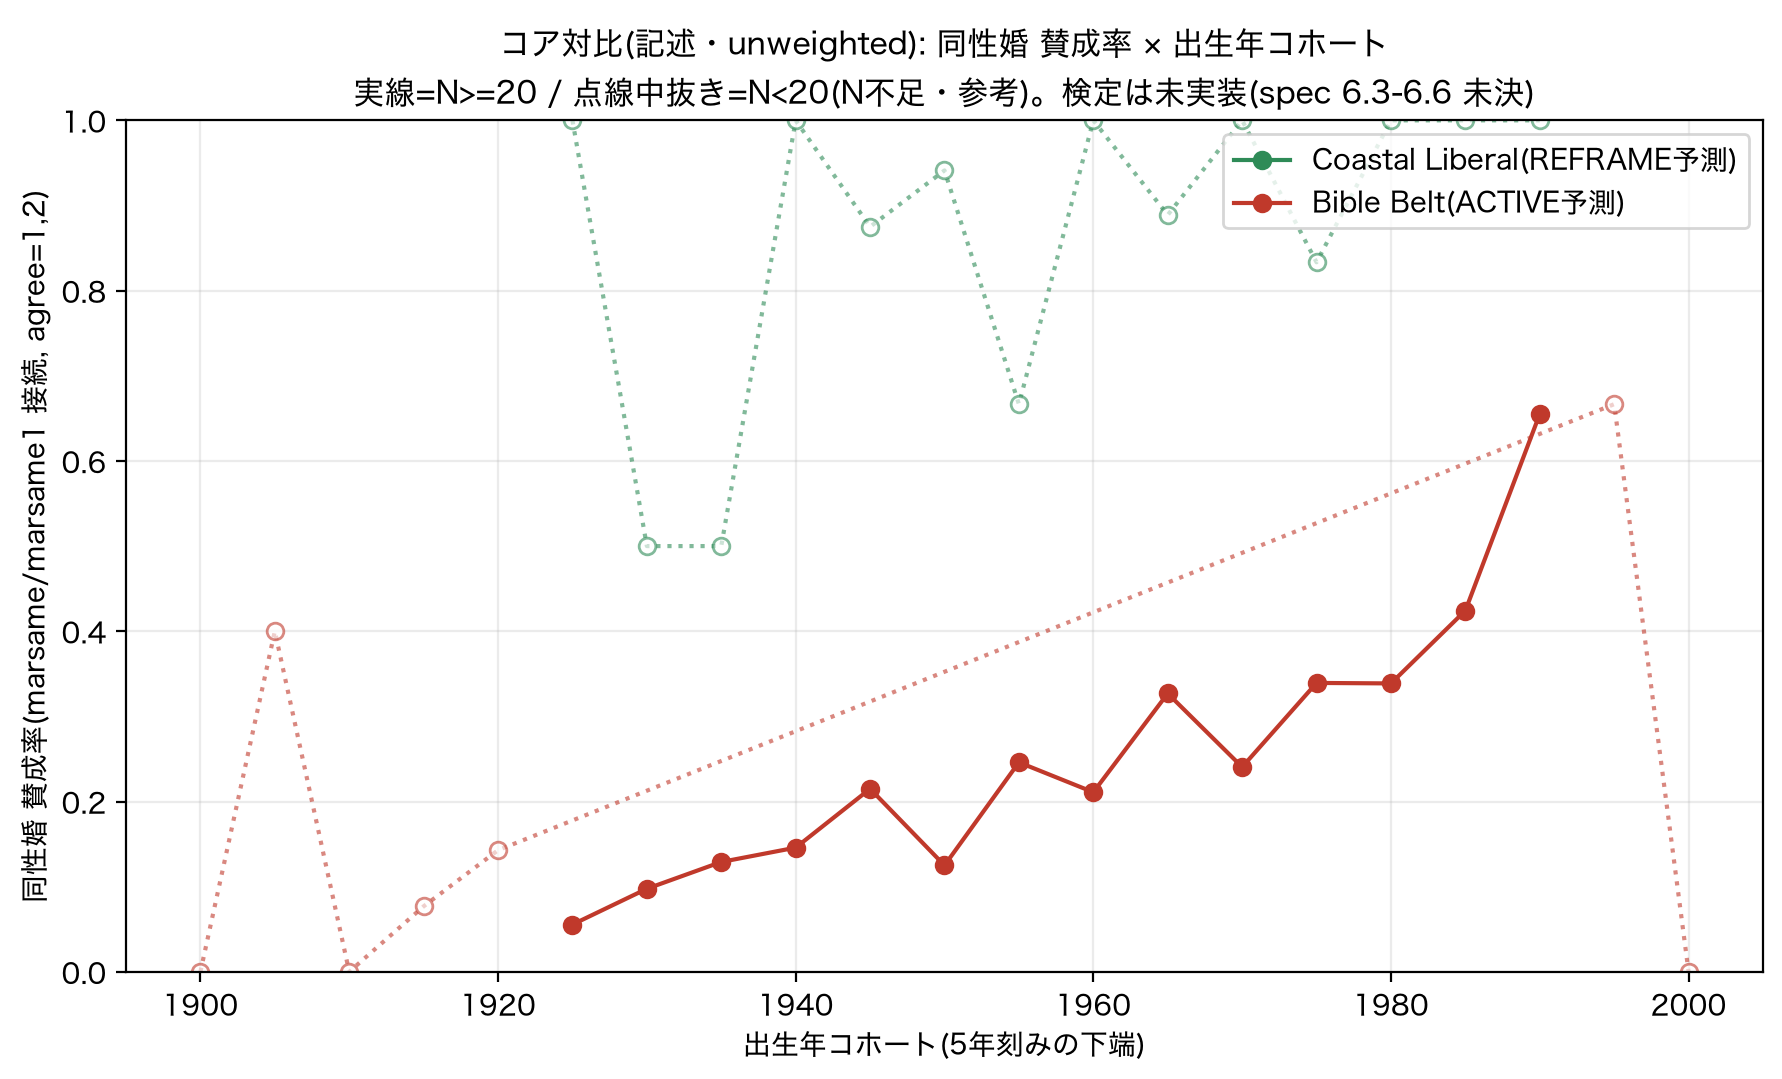
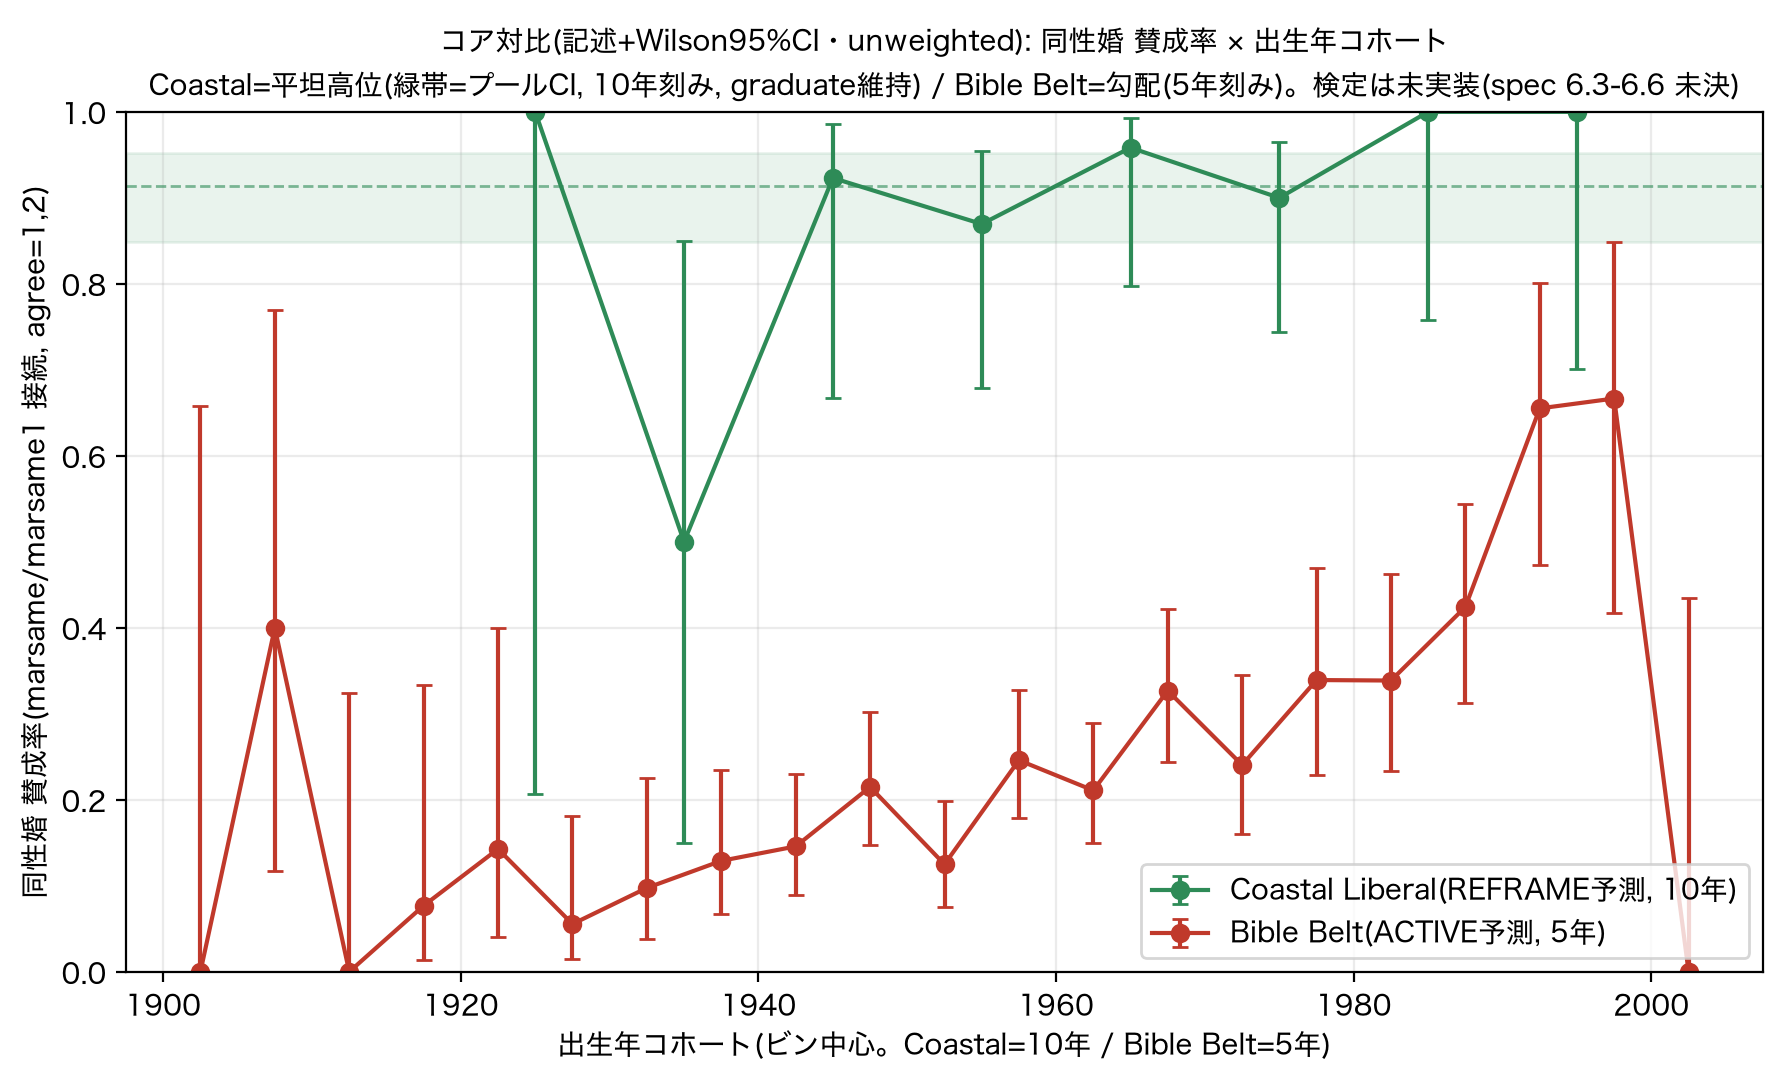
feat(gss): Coastal thin-N decision (β+γ, keep graduate) + Wilson CIs
真道さま decision: reject α (don't relax graduate→bachelor+, would break premise
distinctiveness vs Suburban MC = Non-overwrite). Adopt β+γ: keep graduate, assert
Coastal "flat-high" on the pool (γ), use 10-yr bins to gain N (β); Bible Belt keeps
5-yr gradient. Add Wilson 95% CIs to answer "is flat real or thin-N noise?" (CI is
an error bar, NOT the 6.3/6.4 test statistic — those stay undecided).

Result: Coastal pooled 91% [85,95%] — narrow enough to assert "high" at N=116;
10-yr bins 87-100% with overlapping CIs → flat is real. Bible Belt pooled 24%
[21,26%] with non-overlapping end CIs → gradient is real. Pooled CIs fully
separated → contrast robust despite N asymmetry. Twin-test picture (flat vs
gradient) visible at descriptive level.

diff --git a/src/gss_core_contrast.py b/src/gss_core_contrast.py
@@ -4,12 +4,21 @@ gss_core_contrast.py — コア対比(spec §7 開始点・確定):
   Coastal Liberal(REFRAME 予測) vs Bible Belt(ACTIVE 予測) の同性婚態度プロファイルを
   出生年コホート別に**記述的に**描く。
 
+Coastal の薄 N 対処(真道さま決定 2026-06-26, 案β+γ・graduate 維持・α却下):
+  - **α(graduate→bachelor+ に緩める)は採らない**。"graduate" は CMR の premise 弁別記号
+    (secular_white_coastal_**graduate**)であり、緩めると Suburban MC(..._suburban_bachelor)と
+    学歴軸で被る。N の都合で理論定義を上書きするのは Non-overwrite 違反に近い。定義は graduate 維持。
+  - **γ:** Coastal は「**平坦高位**(REFRAME 署名)」を**プール**で主張。出生年の細かい勾配は主張しない。
+  - **β:** Coastal は**10 年刻み**(粗く N を稼ぐ)。平坦は解像度を落としても平坦=署名は消えない。
+  - Bible Belt は N 厚いので **5 年刻みで勾配**を堂々と描く。
+  - 非対称(Coastal 薄・平坦 / Bible Belt 厚・勾配)は予測と整合(REFRAME=争点ですらない vs ACTIVE=前線)。
+
 重要(Non-overwrite / spec 6.3-6.6 は未決):
-  - 本スクリプトは **記述統計のみ**。shift/polarization の検定統計量(6.3/6.4)、period の扱い(6.5)、
-    多重比較(6.6)は **未決**なので一切実装しない。曲線と N を出して、次セッションの判断材料にする。
-  - 重み付けは未適用(GSS は 〜2018 wtssall / 2021+ wtssps と weight 体系が変わり、波跨ぎ統合は
-    設計判断。spec 6.5 の射程)。よって本図は **unweighted**。これは精緻化の余地として明示する。
-  - 低 N ビンは捨てずに「N 不足」として明示(Honest Structuralism。silent truncation しない)。
+  - shift/polarization の**検定統計量**(6.3/6.4)、period(6.5)、多重比較(6.6)は **未決→未実装**。
+  - 本スクリプトは記述 + **Wilson 95%信頼区間**(指摘#1「平坦は本物か薄Nのブレか」への不確実性付与。
+    CI は検定統計量ではなく記述への誤差棒)。
+  - 重みは未適用(〜2018 wtssall / 2021+ wtssps の波跨ぎ統合は 6.5 の射程)= **unweighted**。
+  - 低 N ビンは捨てず明示(Honest Structuralism)。
 
 Run: python3 src/gss_core_contrast.py   (先に src/gss_acquire.py で data/gss/gss_slim.parquet を用意)
 出力: figures/gss_core_contrast_ssm.png / data/gss_results/core_contrast_ssm.csv
@@ -28,21 +37,39 @@ import gss_segments as G
 ROOT = Path(__file__).resolve().parent.parent
 SLIM = ROOT / "data" / "gss" / "gss_slim.parquet"
 MIN_N = 20          # これ未満のコホートビンは「N不足」として点線/中抜きで表示(捨てない)
-COHORT_W = 5
 
-PAIR = [("Coastal Liberal", "REFRAME予測", "#2e8b57"),
-        ("Bible Belt", "ACTIVE予測", "#c0392b")]
+# 真道さま決定(案β+γ): Coastal は graduate 維持・10年刻み・平坦高位をプールで主張 /
+#                        Bible Belt は 5年刻みで勾配。width を共同体ごとに変える。
+PAIR = [("Coastal Liberal", "REFRAME予測", "#2e8b57", 10),
+        ("Bible Belt",      "ACTIVE予測",  "#c0392b", 5)]
 
 
-def profile(df, name):
+def wilson(k, n, z=1.96):
+    """Wilson 95% 信頼区間(二項比率)。薄 N でも端点が 0/1 を突き抜けない。"""
+    if n == 0:
+        return (float("nan"), float("nan"))
+    p = k / n
+    d = 1 + z * z / n
+    c = (p + z * z / (2 * n)) / d
+    h = z * ((p * (1 - p) + z * z / (4 * n)) / n) ** 0.5 / d
+    return (max(0.0, c - h), min(1.0, c + h))
+
+
+def profile(df, name, width):
     sub = df[G.segment_mask(df, name)].copy()
     sub["approve"] = G.ssm_approve(sub)
-    sub["cohort_bin"] = G.cohort_bin(sub, COHORT_W)
+    sub["cohort_bin"] = G.cohort_bin(sub, width)
     sub = sub.dropna(subset=["approve", "cohort_bin"])
     g = sub.groupby("cohort_bin")["approve"]
-    out = pd.DataFrame({"approval": g.mean(), "n": g.size()})
+    out = pd.DataFrame({"approval": g.mean(), "n": g.size(), "k": g.sum()})
     out.index = out.index.astype(int)
-    return out, len(sub), sorted(sub.year.dropna().astype(int).unique().tolist())
+    ci = [wilson(int(r.k), int(r.n)) for r in out.itertuples()]
+    out["lo"] = [c[0] for c in ci]
+    out["hi"] = [c[1] for c in ci]
+    # プール推定(γ): 全コホート合算の賛成率 + CI
+    k, n = int(sub["approve"].sum()), int(sub["approve"].notna().sum())
+    pooled = (k / n, *wilson(k, n))
+    return out, len(sub), sorted(sub.year.dropna().astype(int).unique().tolist()), pooled, width
 
 
 def main():
@@ -55,30 +82,38 @@ def main():
     fig, ax = plt.subplots(figsize=(9, 5.5))
 
     rows = []
-    print("=" * 76)
-    print("  GSS コア対比(記述): 同性婚 賛成率 × 出生年コホート  [unweighted]")
-    print("  Coastal Liberal(REFRAME予測) vs Bible Belt(ACTIVE予測)")
-    print("=" * 76)
-    for name, pred, color in PAIR:
-        prof, n_total, years = profile(df, name)
-        print(f"\n── {name}  [{pred}]  marsame非欠損 N={n_total}  波={years}")
+    print("=" * 80)
+    print("  GSS コア対比(記述+Wilson95%CI): 同性婚 賛成率 × 出生年コホート  [unweighted]")
+    print("  Coastal Liberal(REFRAME予測, graduate維持・10年刻み・平坦高位)")
+    print("  vs Bible Belt(ACTIVE予測, 5年刻み・勾配)")
+    print("=" * 80)
+    for name, pred, color, width in PAIR:
+        prof, n_total, years, pooled, w = profile(df, name, width)
+        print(f"\n── {name}  [{pred}]  marsame非欠損 N={n_total}  幅={w}年  波={years}")
+        print(f"   プール賛成率(γ): {pooled[0]:.0%}  95%CI[{pooled[1]:.0%}, {pooled[2]:.0%}]")
         for cb, r in prof.iterrows():
             flag = "  ⚠N不足" if r["n"] < MIN_N else ""
-            print(f"   生{cb}-{cb+COHORT_W-1}: 賛成 {r['approval']:.0%}  (N={int(r['n'])}){flag}")
-            rows.append({"segment": name, "prediction": pred, "cohort_bin": cb,
-                         "approval": round(r["approval"], 4), "n": int(r["n"]),
-                         "low_n": bool(r["n"] < MIN_N)})
-        solid = prof[prof.n >= MIN_N]
-        thin = prof[prof.n < MIN_N]
-        ax.plot(solid.index, solid["approval"], "-o", color=color, label=f"{name}({pred})")
-        ax.plot(thin.index, thin["approval"], ":o", color=color, mfc="white", alpha=0.6)
+            print(f"   生{cb}-{cb+w-1}: 賛成 {r['approval']:.0%}  CI[{r['lo']:.0%},{r['hi']:.0%}]  (N={int(r['n'])}){flag}")
+            rows.append({"segment": name, "prediction": pred, "cohort_bin": int(cb), "bin_width": w,
+                         "approval": round(r["approval"], 4), "ci_lo": round(r["lo"], 4),
+                         "ci_hi": round(r["hi"], 4), "n": int(r["n"]), "low_n": bool(r["n"] < MIN_N),
+                         "pooled_approval": round(pooled[0], 4),
+                         "pooled_ci_lo": round(pooled[1], 4), "pooled_ci_hi": round(pooled[2], 4)})
+        x = prof.index + w / 2          # ビン中心
+        yerr = [prof["approval"] - prof["lo"], prof["hi"] - prof["approval"]]
+        ax.errorbar(x, prof["approval"], yerr=yerr, fmt="-o", color=color, capsize=3,
+                    label=f"{name}({pred}, {w}年)")
+    # Coastal のプール平坦高位を帯で重ねる(γ の可視化)
+    cprof, _, _, cpooled, _ = profile(df, "Coastal Liberal", 10)
+    ax.axhspan(cpooled[1], cpooled[2], color="#2e8b57", alpha=0.10)
+    ax.axhline(cpooled[0], color="#2e8b57", ls="--", lw=1, alpha=0.6)
 
-    ax.set_xlabel("出生年コホート(5年刻みの下端)")
+    ax.set_xlabel("出生年コホート(ビン中心。Coastal=10年 / Bible Belt=5年)")
     ax.set_ylabel("同性婚 賛成率(marsame/marsame1 接続, agree=1,2)")
     ax.set_ylim(0, 1)
-    ax.set_title("コア対比(記述・unweighted): 同性婚 賛成率 × 出生年コホート\n"
-                 "実線=N>=20 / 点線中抜き=N<20(N不足・参考)。検定は未実装(spec 6.3-6.6 未決)",
-                 fontsize=11)
+    ax.set_title("コア対比(記述+Wilson95%CI・unweighted): 同性婚 賛成率 × 出生年コホート\n"
+                 "Coastal=平坦高位(緑帯=プールCI, 10年刻み, graduate維持) / Bible Belt=勾配(5年刻み)。"
+                 "検定は未実装(spec 6.3-6.6 未決)", fontsize=10)
     ax.grid(alpha=0.25)
     ax.legend()
     fig.tight_layout()

diff --git a/docs/gss_validation_findings.md b/docs/gss_validation_findings.md
@@ -59,21 +59,38 @@ spec の「黒子へ実装引き継ぎ(GSS取得 → RELTRAD → セグメント
 
 **Coastal Liberal(REFRAME 予測) vs Bible Belt(ACTIVE 予測)**。接続 11 波(1988–2022)。
 
+**Coastal の薄 N 対処(真道さま決定 2026-06-26):案β+γ・graduate 維持・α却下。**
+- **α(graduate→bachelor+)却下**:"graduate" は premise の弁別記号。緩めると Suburban MC と学歴軸で
+  被る。N の都合で理論定義を上書き = Non-overwrite 違反に近い。**定義は graduate のまま維持**。
+- **γ**:Coastal は「平坦高位(REFRAME 署名)」を**プール**で主張(細かい勾配は主張しない)。
+- **β**:Coastal は **10 年刻み**で N を稼ぐ(平坦は粗くしても平坦)。Bible Belt は **5 年刻みで勾配**。
+- 指摘#1(平坦は本物か薄Nのブレか)に答えるため **Wilson 95%CI** を付与(CI は誤差棒であって検定統計量ではない)。
+
 ![core contrast](../figures/gss_core_contrast_ssm.png)
 
-| | marsame 非欠損 N | コホート勾配の形 |
-|---|---|---|
-| **Coastal Liberal** | **116(薄い)** | **平坦高位**:全出生年で賛成 ~83–100%。コホート差ほぼ無し |
-| **Bible Belt** | **1,166(頑健)** | **明瞭な勾配**:1925–29生 6% → 1965–69生 33% → 1985–89生 42% → 1990–94生 66% |
+| | marsame 非欠損 N | プール賛成率 [95%CI] | コホートの形 |
+|---|---|---|---|
+| **Coastal Liberal** | 116 | **91% [85%, 95%]** | **平坦高位**:10年ビンで 87–100%、CI 重なる=勾配なし |
+| **Bible Belt** | 1,166 | **24% [21%, 26%]** | **明瞭な単調勾配**:~6–15%(–1944生)→ 42%(1985-89)→ 66%(1990-94) |
 
-### 2.1 これは CMR 予測の向きと整合(ただし記述・検定は未実装)
+### 2.1 指摘#1への回答:平坦は本物(薄Nのブレではない)
+- **Coastal プール 91%、CI[85,95%]** — N=116 でも CI は十分狭く「**高位**」と断言できる。10 年ビンでも
+  1940-49〜1990-99 が 87–100% で CI が重なる = **平坦は本物**。薄 N でも γ(平坦高位)は成立。
+- **Bible Belt** はプール 24% で、両端コホートの CI が非重複(例:1925-29 [2,18%] vs 1990-94 [47,80%])
+  = **勾配は本物**。
+- 2 共同体のプール CI([85,95%] vs [21,26%])は完全分離 → 対比は頑健。N 非対称は対比の妥当性を壊さない。
+
+### 2.2 これは CMR 予測の向きと整合(記述+CI。検定は未実装)
 - **Coastal = REFRAME 署名**:出生年に関わらず賛成が高位で平坦 = 「基準値が既に書き換わった共同体」。
-  世代を追っても動く余地が小さい(天井近く)。REFRAME 予測共同体が baseline で先行している像。
-- **Bible Belt = ACTIVE/争点の前線**:出生年で賛成率が大きく動く = 共同体内で世代間にコントラスト。
-  「議論が割れ・態度が動く」前線がここにある。spec の polarization 検証が効くのはこちら。
+  世代を追っても動く余地が小さい(天井近く)。
+- **Bible Belt = ACTIVE/争点の前線**:出生年で賛成率が大きく動く = 共同体内に世代コントラスト。
+  spec の polarization 検証が効くのはこちら。
+- **双子検定の像**:片方が平坦高位・片方が勾配 = 単一 resolver が premise ごとに別モードへ解決した帰結
+  (spec §5.1)。記述レベルでこの非対称が見えている。
 
-> ⚠️ **これは記述のみ**。「早期立ち上がり(shift)」「分散拡大(polarization)」の**検定統計量は未実装**
-> (spec 6.3/6.4 未決)。曲線の形が予測と整合する、という以上の主張はまだしない(後付け防止 §5.2)。
+> ⚠️ 「早期立ち上がり(shift)」「分散拡大(polarization)」の**検定統計量は未実装**(spec 6.3/6.4 未決)。
+> CI は記述への誤差棒であって、その検定ではない。曲線の形と CI が予測と整合する以上の主張はまだしない
+> (後付け防止 §5.2)。
 
 ---
 
@@ -81,9 +98,8 @@ spec の「黒子へ実装引き継ぎ(GSS取得 → RELTRAD → セグメント
 
 実データを見たうえで、判断材料込みで挙げる。**勝手に決めない**(Non-overwrite)。
 
-1. **Coastal の N 薄問題(構築判断)**:`degree==4`(院卒のみ)で N=116。`degree>=3`(学士+)に緩めると
-   厚くなるが定義が変わる。緩める/地理を広げる/Coastal を「平坦高位の確認」に留め主力対比を別ペアにする、
-   のいずれか。**spec §4.1 の定義変更にあたるので環の判断**。
+1. ~~**Coastal の N 薄問題**~~ → **決着(2026-06-26):案β+γ・graduate 維持・α却下**(§2)。プール 91%
+   [85,95%]・10 年ビンで平坦が CI 付きで確認でき、定義変更なしで解決。以降この方針で固定。
 2. **6.3 shift の統計量**:平坦高位の Coastal に「立ち上がりの出生年」を当てるのは不適(天井)。
    むしろ「Coastal は全コホートで高位 = 早期飽和」を shift の極限形として扱うか、別の REFRAME 指標
    (賛成率の天井到達コホート)にするか。要設計。